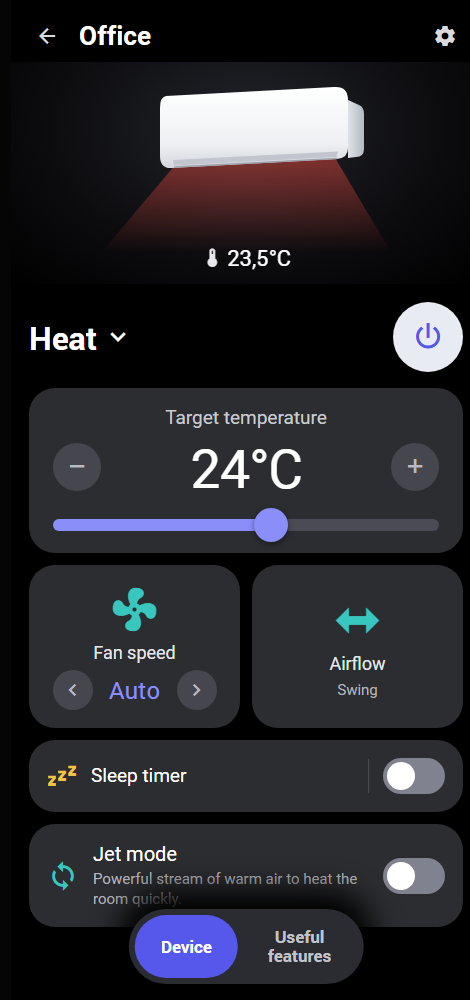
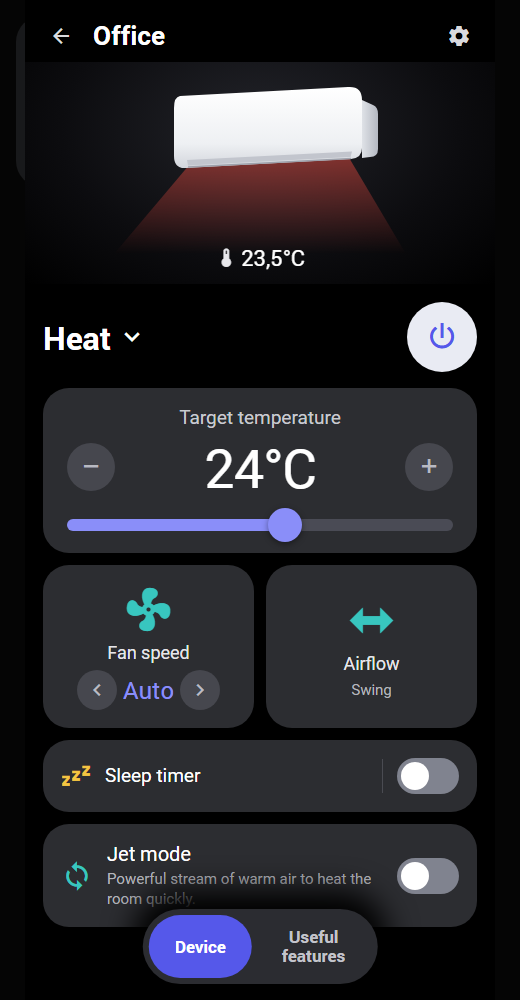
Release 1.5.0: airflow and fan speed sheets like the ThinQ app
- Airflow: Up/Down and Left/Right pictures, arrow buttons and swing switches
- Fan speed: horseshoe dial (drag or tap), minus/plus buttons and Auto switch
- Control screen and tiles fit phone screens of 360 px wide

diff --git a/dist/thinq-airco-card.js b/dist/thinq-airco-card.js
@@ -16,7 +16,7 @@
  *                                       entity overrides; found automatically on the same device.
  *                                       Set to false to hide a feature.
  */
-const LG_VERSION = '1.4.0';
+const LG_VERSION = '1.5.0';
 const LG_I18N = {
   nl: {
     'm.cool': 'Koelen', 'm.dry': 'Ontvochtigen', 'm.fan_only': 'Ventilator', 'm.heat': 'Warmte', 'm.heat_cool': 'Auto', 'm.auto': 'Auto', 'm.__on': 'Inschakelen…',
@@ -30,6 +30,7 @@ const LG_I18N = {
     jet_heat: 'Krachtige stroom warme lucht om de ruimte snel te verwarmen.', jet_cool: 'Krachtige stroom koude lucht om de ruimte snel te koelen.',
     filter: 'Filter', filter_clean: 'Filter schoonmaken aanbevolen', filter_life: 'Resterende levensduur', power_now: 'Stroomverbruik nu', energy_total: 'Energie totaal',
     display_light: 'Displayverlichting', wifi: 'Wifi', all_details: 'Alle details', tab_device: 'Toestel', tab_extra: 'Nuttige<br>functies',
+    v_head: 'Omhoog/Omlaag', v_swing: 'Omhoog/Omlaag zwenken', h_head: 'Links/Rechts', h_swing: 'Links/Rechts zwenken', close: 'Sluiten',
     mode_title: 'Bedieningsmodus', updown: 'Op en neer', leftright: 'Links en rechts', swing: 'Zwenken',
     sleep_after: 'De airco gaat uit na', sleep_now: 'Nu: uit over {d}. Wijzigen naar', sleep_off: 'Slaaptimer uit', sleep_left: 'Gaat uit over {d}',
     sleep_set: 'Slaaptimer: de airco gaat uit over {d}', sleep_failed: 'Slaaptimer mislukt: {e}', failed: 'Mislukt: {e}',
@@ -48,6 +49,7 @@ const LG_I18N = {
     jet_heat: 'Powerful stream of warm air to heat the room quickly.', jet_cool: 'Powerful stream of cold air to cool the room quickly.',
     filter: 'Filter', filter_clean: 'Cleaning recommended', filter_life: 'Remaining life', power_now: 'Power now', energy_total: 'Total energy',
     display_light: 'Display light', wifi: 'Wi-Fi', all_details: 'All details', tab_device: 'Device', tab_extra: 'Useful<br>features',
+    v_head: 'Up/Down', v_swing: 'Up/Down swing', h_head: 'Left/Right', h_swing: 'Left/Right swing', close: 'Close',
     mode_title: 'Operation mode', updown: 'Up and down', leftright: 'Left and right', swing: 'Swing',
     sleep_after: 'Turn the air conditioner off after', sleep_now: 'Now: off in {d}. Change to', sleep_off: 'Sleep timer off', sleep_left: 'Turns off in {d}',
     sleep_set: 'Sleep timer: turns off in {d}', sleep_failed: 'Sleep timer failed: {e}', failed: 'Failed: {e}',
@@ -170,6 +172,47 @@ function lgFlowSvg(k, v) {
     else body += arrow(ox, oy, 90, 22) + pin(ox, oy);
   }
   return `<svg viewBox="0 0 46 41" fill="none" stroke="currentColor" stroke-width="2.4" stroke-linecap="round" stroke-linejoin="round">${body}</svg>`;
+}
+
+/* ---- luchtstroom- en ventilatorbladen in ThinQ-stijl ---- */
+const LG_V_ORDER = ['Top', 'MiddleTop1', 'MiddleTop2', 'MiddleBottom2', 'MiddleBottom1', 'Bottom'];
+const LG_H_ORDER = ['Left', 'MiddleLeft', 'Center', 'MiddleRight', 'Right'];
+const LG_FAN_AUTO = ['diffuse', 'auto'];
+const lgRays = (cx, cy, angles, act, r1, r2, rd) => angles.map((deg, i) => {
+  const a = (deg * Math.PI) / 180, c = Math.cos(a), s = Math.sin(a), on = act[i] ? ' on' : '';
+  return `<line class="ray${on}" x1="${(cx + c * r1).toFixed(1)}" y1="${(cy + s * r1).toFixed(1)}" x2="${(cx + c * r2).toFixed(1)}" y2="${(cy + s * r2).toFixed(1)}"/>`
+    + `<circle class="dot${on}" cx="${(cx + c * rd).toFixed(1)}" cy="${(cy + s * rd).toFixed(1)}" r="3"/>`;
+}).join('');
+// zijaanzicht: airco tegen de muur rechts, 6 stralen van bijna horizontaal naar bijna verticaal
+const lgVPic = (act) => `<svg class="flowpic" viewBox="0 0 160 132"><path class="frame" d="M28 24 H116 Q122 24 122 30 V34 Q122 38 126 38 H130 Q134 38 134 42 V124"/>`
+  + `${lgRays(112, 42, [170, 156, 142, 128, 114, 100], act, 13, 74, 84)}</svg>`;
+// vooraanzicht: dak met inkeping, 5 stralen naar beneden
+const lgHPic = (act) => `<svg class="flowpic" viewBox="0 0 200 132"><path class="frame" d="M18 104 L80 34 Q86 27 91 34 L95 39 Q100 45 105 39 L109 34 Q114 27 120 34 L182 104"/>`
+  + `${lgRays(100, 48, [126, 108, 90, 72, 54], act, 14, 70, 80)}</svg>`;
+const LG_FAN_GEO = { cx: 150, cy: 160, r: 104, w: 56, a0: 125, span: 290 };
+// lange namen (bijv. "Laag-midden") kleiner, zodat ze binnen de boog blijven
+const lgFanFont = (t) => { const n = String(t || '').length; return n <= 5 ? 40 : n <= 8 ? 32 : 25; };
+const lgFanPos = (n, i) => {
+  const g = LG_FAN_GEO, deg = g.a0 + (n > 1 ? (i * g.span) / (n - 1) : g.span / 2), a = (deg * Math.PI) / 180;
+  return [+(g.cx + Math.cos(a) * g.r).toFixed(1), +(g.cy + Math.sin(a) * g.r).toFixed(1)];
+};
+function lgFanPic(n, idx, isAuto, labels, center) {
+  const g = LG_FAN_GEO, rad = (d) => (d * Math.PI) / 180;
+  const sx = g.cx + Math.cos(rad(g.a0)) * g.r, sy = g.cy + Math.sin(rad(g.a0)) * g.r;
+  const ex = g.cx + Math.cos(rad(g.a0 + g.span)) * g.r, ey = g.cy + Math.sin(rad(g.a0 + g.span)) * g.r;
+  let dots = '';
+  for (let i = 0; i < n; i++) { const [x, y] = lgFanPos(n, i); dots += `<circle cx="${x}" cy="${y}" r="4"/>`; }
+  const [tx, ty] = idx >= 0 ? lgFanPos(n, idx) : [g.cx, g.cy];
+  const [lx0, ly0] = lgFanPos(n, 0), [lx1, ly1] = lgFanPos(n, n - 1);
+  return `<svg class="fanpic${isAuto ? ' auto' : ''}" viewBox="0 0 300 300">
+    <defs><linearGradient id="fg" gradientUnits="userSpaceOnUse" x1="40" y1="0" x2="260" y2="0"><stop offset="0" stop-color="#edbb5f"/><stop offset="1" stop-color="#df6d48"/></linearGradient></defs>
+    <path class="arc" d="M${sx.toFixed(1)} ${sy.toFixed(1)} A${g.r} ${g.r} 0 1 1 ${ex.toFixed(1)} ${ey.toFixed(1)}" stroke="url(#fg)" stroke-width="${g.w}" stroke-linecap="round" fill="none"/>
+    <g class="dots" fill="#fff">${dots}</g>
+    <circle class="thumb" cx="${tx}" cy="${ty}" r="25" ${idx >= 0 ? '' : 'style="display:none"'}/>
+    <text class="ctext" x="${g.cx}" y="${g.cy + 4}" style="font-size:${lgFanFont(center)}px">${lgEsc(center)}</text>
+    <text class="lab" x="${lx0}" y="${ly0 + 52}">${lgEsc(labels[0])}</text>
+    ${labels[1] ? `<text class="lab" x="${g.cx}" y="${g.cy - g.r - g.w / 2 - 12}">${lgEsc(labels[1])}</text>` : ''}
+    <text class="lab" x="${lx1}" y="${ly1 + 52}">${lgEsc(labels[2])}</text></svg>`;
 }
 
 function lgCurrentTemp(hass, config, s) {
@@ -350,6 +393,52 @@ dialog.bsheet::backdrop { background: rgba(0,0,0,.55); }
 .bs-backdrop { flex: 1 1 auto; min-height: 40px; cursor: pointer; }
 .bs { flex: 0 1 auto; position:relative; background:#1f2023; border-radius: 30px 30px 0 0; padding: 12px 20px 28px; max-height: 85%; overflow-y:auto; box-sizing: border-box; animation: up .22s ease; }
 .grab { width: 58px; height: 6px; border-radius: 3px; background:#6b6e7a; margin: 0 auto 18px; }
+/* luchtstroom-blad (ThinQ-stijl) */
+.sec-h { color:#a3a5ad; font-size: 15px; letter-spacing: .4px; text-transform: uppercase; margin: 18px 4px 10px; }
+.flowcard { background:#2e2f34; border-radius: 22px; padding: 14px 18px 4px; }
+.flowtop { display:flex; align-items:center; justify-content:space-between; gap: 10px; }
+.flowpic { flex: 1 1 auto; min-width: 0; max-width: 230px; height: auto; display:block; }
+.flowpic .frame { fill:none; stroke:#8e8f95; stroke-width: 4; stroke-linecap: round; stroke-linejoin: round; }
+.flowpic .ray { stroke:#7c7d84; stroke-width: 5; stroke-linecap: round; }
+.flowpic .dot { fill:#7c7d84; }
+.flowpic .ray.on { stroke:#6d70f0; } .flowpic .dot.on { fill:#6d70f0; }
+.flowbtns { display:flex; gap: 14px; flex: none; }
+.flowbtns.v { flex-direction: column; }
+.flowbtns .round:disabled { opacity: .35; cursor: default; }
+.flowrow { display:flex; align-items:center; justify-content:space-between; gap: 12px; border-top: 1px solid #45464d; margin-top: 14px; min-height: 62px; font-size: 18px; }
+.closebtn { display:block; width:100%; margin-top: 18px; background:#2e2f34; color:#a9abf8; border:none; border-radius: 16px; padding: 16px; font: inherit; font-size: 18px; cursor:pointer; }
+/* ventilator-blad (ThinQ-stijl) */
+.fanwrap { display:flex; flex-direction:column; align-items:center; }
+.fanpic { width: 100%; max-width: 320px; height: auto; touch-action: none; user-select: none; -webkit-user-select: none; cursor: pointer; }
+.fanpic .lab { fill:#c4c5cc; font-size: 17px; text-anchor: middle; }
+.fanpic .ctext { fill: currentColor; font-size: 40px; text-anchor: middle; dominant-baseline: middle; }
+.fanpic .thumb { fill:#cf613d; stroke: rgba(255,255,255,.28); stroke-width: 3; }
+.fanpic.auto .arc, .fanpic.auto .dots { opacity: .3; }
+.fanpm { display:flex; justify-content:space-between; width: 100%; max-width: 330px; margin-top: -4px; }
+.fanpm .round:disabled { opacity: .35; cursor: default; }
+.autorow { display:flex; align-items:center; justify-content:center; gap: 16px; margin-top: 16px; font-size: 18px; }
+.fan { cursor: pointer; }
+/* telefoon: alles moet binnen ~360 px passen */
+.grid2 { grid-template-columns: repeat(2, minmax(0, 1fr)); }
+.cyc { gap: 6px; } .val { min-width: 0; overflow: hidden; text-overflow: ellipsis; white-space: nowrap; }
+@media (max-width: 420px) {
+  .content { padding: 0 12px 100px; }
+  .hero { margin: 0 -12px; }
+  .grid2 > .card { min-height: 140px; padding: 14px 8px; }
+  .bigico { --mdc-icon-size: 44px; }
+  .lbl2 { font-size: 16px; }
+  .val { font-size: 20px; }
+  .round.sm { width: 34px; height: 34px; }
+  .tval { font-size: 48px; }
+  .modebtn { font-size: 28px; }
+  .power { width: 62px; height: 62px; }
+  .flowcard { padding: 12px 14px 4px; }
+  .flowrow { font-size: 16px; }
+  .flowbtns { gap: 10px; }
+}
+:host([bg=glass]) .flowcard, :host([bg=glass]) .closebtn { background: rgba(255,255,255,0.07); }
+:host([bg=theme]) .flowcard, :host([bg=theme]) .closebtn { background: var(--secondary-background-color, rgba(127,127,127,.15)); }
+:host([bg=theme]) .flowrow, :host([bg=theme]) .autorow { color: var(--primary-text-color, #fff); }
 .bs-title { font-size: 26px; font-weight: 700; margin: 0 0 16px 4px; }
 .opts { background:#2e2f34; border-radius: 22px; padding: 0 18px; }
 .opt { display:flex; align-items:center; gap: 14px; min-height: 64px; cursor:pointer; font-size: 20px; }
@@ -558,6 +647,7 @@ class LgAircoPanel extends HTMLElement {
     q('.fprev').addEventListener('click', () => this._cycleFan(-1));
     q('.fnext').addEventListener('click', () => this._cycleFan(1));
     $.air.addEventListener('click', () => this._openSheet('air'));
+    $.fan.addEventListener('click', (e) => { if (!e.target.closest('button')) this._openSheet('fan'); });
     $.sleepchk.addEventListener('change', () => {
       if ($.sleepchk.checked) { $.sleepchk.checked = false; this._openSheet('sleep'); }
       else this._setSleep(0);
@@ -626,6 +716,10 @@ class LgAircoPanel extends HTMLElement {
     $.air.classList.toggle('solo', !fans.length);
     $.grid2.hidden = !fans.length && !hasAir;
     const vs = this._val('swing', a.swing_mode), hs = this._val('hswing', a.swing_horizontal_mode);
+    if (LG_V_ORDER.includes(vs)) this._lastV = vs;
+    if (LG_H_ORDER.includes(hs)) this._lastH = hs;
+    const fmNow = this._val('fan', a.fan_mode);
+    if (fmNow && !LG_FAN_AUTO.includes(fmNow)) this._lastFan = fmNow;
     let airTxt = '';
     if (vs === 'Swing' && hs === 'Swing') airTxt = lgT('swing');
     else airTxt = [vs && `↕ ${LG_VSWING[vs] || vs}`, hs && `↔ ${LG_HSWING[hs] || hs}`].filter(Boolean).join('  ');
@@ -750,6 +844,129 @@ class LgAircoPanel extends HTMLElement {
     this._closeSheet();
     this._update();
   }
+  _setFan(m) {
+    if (!m) return;
+    this._setPending('fan', m);
+    this._call('climate', 'set_fan_mode', { entity_id: this._config.entity, fan_mode: m }, 'fan');
+    this._sheetSig = null;
+    this._update();
+  }
+
+  /* Luchtstroom-blad zoals in de ThinQ-app: Omhoog/Omlaag (zijaanzicht, 6 stralen) en
+     Links/Rechts (vooraanzicht, 5 stralen), elk met pijlknoppen en een zwenk-schakelaar. */
+  _renderAirSheet(a) {
+    const $ = this.$;
+    $.bstitle.textContent = lgT('airflow');
+    const vs = this._val('swing', a.swing_mode), hs = this._val('hswing', a.swing_horizontal_mode);
+    const vList = LG_V_ORDER.filter((v) => (a.swing_modes || []).includes(v));
+    const hList = LG_H_ORDER.filter((v) => (a.swing_horizontal_modes || []).includes(v));
+    const vFix = LG_V_ORDER.includes(vs) ? vs : this._lastV;
+    const hFix = LG_H_ORDER.includes(hs) ? hs : this._lastH;
+    const vAct = LG_V_ORDER.map((v) => vs === 'Swing' || v === vFix);
+    const hAct = LG_H_ORDER.map((v, i) => hs === 'Swing' || v === hFix
+      || (hs === 'LeftHalf' && i <= 2) || (hs === 'RightHalf' && i >= 2));
+    const vCur = vList.indexOf(vFix), hCur = hList.indexOf(hFix);
+    let html = '';
+    if (vList.length || (a.swing_modes || []).includes('Swing')) {
+      html += `<div class="sec-h">${lgT('v_head')}</div><div class="flowcard">
+        <div class="flowtop">${lgVPic(vAct)}<div class="flowbtns v">
+          <button class="round" data-a="vup" ${vList.length && vCur === 0 && vs !== 'Swing' ? 'disabled' : ''}><ha-icon icon="mdi:chevron-up"></ha-icon></button>
+          <button class="round" data-a="vdown" ${vList.length && vCur === vList.length - 1 && vs !== 'Swing' ? 'disabled' : ''}><ha-icon icon="mdi:chevron-down"></ha-icon></button></div></div>
+        <div class="flowrow"><span>${lgT('v_swing')}</span><label class="tgl"><input type="checkbox" data-a="vswing" ${vs === 'Swing' ? 'checked' : ''}><span></span></label></div></div>`;
+    }
+    if (hList.length || (a.swing_horizontal_modes || []).includes('Swing')) {
+      html += `<div class="sec-h">${lgT('h_head')}</div><div class="flowcard">
+        <div class="flowtop">${lgHPic(hAct)}<div class="flowbtns">
+          <button class="round" data-a="hleft" ${hList.length && hCur === 0 && hs !== 'Swing' ? 'disabled' : ''}><ha-icon icon="mdi:chevron-left"></ha-icon></button>
+          <button class="round" data-a="hright" ${hList.length && hCur === hList.length - 1 && hs !== 'Swing' ? 'disabled' : ''}><ha-icon icon="mdi:chevron-right"></ha-icon></button></div></div>
+        <div class="flowrow"><span>${lgT('h_swing')}</span><label class="tgl"><input type="checkbox" data-a="hswing" ${hs === 'Swing' ? 'checked' : ''}><span></span></label></div></div>`;
+    }
+    html += `<button class="closebtn">${lgT('close')}</button>`;
+    $.bsbody.innerHTML = html;
+    const step = (list, cur, dir) => {
+      if (!list.length) return null;
+      const base = cur >= 0 ? cur : Math.floor((list.length - 1) / 2) + (dir < 0 ? 1 : 0);
+      return list[Math.min(list.length - 1, Math.max(0, base + dir))];
+    };
+    const on = (sel, ev, fn) => { const el = $.bsbody.querySelector(sel); if (el) el.addEventListener(ev, fn); };
+    on('[data-a="vup"]', 'click', () => this._setSwing('v', step(vList, vCur, -1)));
+    on('[data-a="vdown"]', 'click', () => this._setSwing('v', step(vList, vCur, 1)));
+    on('[data-a="hleft"]', 'click', () => this._setSwing('h', step(hList, hCur, -1)));
+    on('[data-a="hright"]', 'click', () => this._setSwing('h', step(hList, hCur, 1)));
+    on('[data-a="vswing"]', 'change', (e) => this._setSwing('v', e.target.checked ? 'Swing' : (this._lastV && vList.includes(this._lastV) ? this._lastV : 'Off')));
+    on('[data-a="hswing"]', 'change', (e) => this._setSwing('h', e.target.checked ? 'Swing' : (this._lastH && hList.includes(this._lastH) ? this._lastH : 'Off')));
+    on('.closebtn', 'click', () => this._closeSheet());
+  }
+
+  /* Ventilatorsnelheid-blad zoals in de ThinQ-app: hoefijzer met kleurverloop, sleepbaar bolletje,
+     − / + en een Auto-schakelaar. */
+  _renderFanSheet(a) {
+    const $ = this.$;
+    $.bstitle.textContent = lgT('fan');
+    const all = a.fan_modes || [];
+    const manual = all.filter((m) => !LG_FAN_AUTO.includes(m));
+    const autoMode = all.find((m) => LG_FAN_AUTO.includes(m));
+    const cur = this._val('fan', a.fan_mode);
+    const isAuto = LG_FAN_AUTO.includes(cur);
+    let idx = manual.indexOf(cur);
+    if (idx < 0) idx = manual.indexOf(this._lastFan);
+    const base = idx >= 0 ? idx : Math.floor((manual.length - 1) / 2);
+    this._fanCtx = { manual, base };
+    const n = manual.length;
+    let html = '';
+    if (n) {
+      const mid = Math.floor((n - 1) / 2);
+      html += `<div class="fanwrap">${lgFanPic(n, isAuto ? -1 : base, isAuto,
+        [LG_FAN[manual[0]] || manual[0], n > 2 ? LG_FAN[manual[mid]] || manual[mid] : '', LG_FAN[manual[n - 1]] || manual[n - 1]],
+        isAuto ? (LG_FAN[cur] || 'Auto') : (LG_FAN[manual[base]] || manual[base]))}
+        <div class="fanpm"><button class="round" data-a="fminus" ${!isAuto && base <= 0 ? 'disabled' : ''}>−</button>
+        <button class="round" data-a="fplus" ${!isAuto && base >= n - 1 ? 'disabled' : ''}>+</button></div></div>`;
+    }
+    if (autoMode) html += `<div class="autorow"><span>${LG_FAN[autoMode] || 'Auto'}</span><label class="tgl"><input type="checkbox" data-a="fauto" ${isAuto ? 'checked' : ''}><span></span></label></div>`;
+    html += `<button class="closebtn">${lgT('close')}</button>`;
+    $.bsbody.innerHTML = html;
+    const on = (sel, ev, fn) => { const el = $.bsbody.querySelector(sel); if (el) el.addEventListener(ev, fn); };
+    on('[data-a="fminus"]', 'click', () => this._setFan(manual[isAuto ? base : Math.max(0, base - 1)]));
+    on('[data-a="fplus"]', 'click', () => this._setFan(manual[isAuto ? base : Math.min(n - 1, base + 1)]));
+    on('[data-a="fauto"]', 'change', (e) => this._setFan(e.target.checked ? autoMode : manual[base]));
+    on('.closebtn', 'click', () => this._closeSheet());
+    const svg = $.bsbody.querySelector('.fanpic');
+    if (!svg || !n) return;
+    const pick = (ev) => {
+      const ctm = svg.getScreenCTM(); if (!ctm) return base;
+      const p = new DOMPoint(ev.clientX, ev.clientY).matrixTransform(ctm.inverse());
+      const ang = (Math.atan2(p.y - LG_FAN_GEO.cy, p.x - LG_FAN_GEO.cx) * 180) / Math.PI;
+      let rel = (((ang - LG_FAN_GEO.a0) % 360) + 360) % 360;
+      if (rel > LG_FAN_GEO.span) rel = rel > LG_FAN_GEO.span + (360 - LG_FAN_GEO.span) / 2 ? 0 : LG_FAN_GEO.span;
+      return n > 1 ? Math.round((rel / LG_FAN_GEO.span) * (n - 1)) : 0;
+    };
+    const live = (i) => {
+      const [x, y] = lgFanPos(n, i);
+      const th = svg.querySelector('.thumb'); th.setAttribute('cx', x); th.setAttribute('cy', y); th.style.display = '';
+      const ct = svg.querySelector('.ctext'), txt = LG_FAN[manual[i]] || manual[i];
+      ct.textContent = txt; ct.style.fontSize = `${lgFanFont(txt)}px`;
+      svg.classList.remove('auto');
+    };
+    let liveIdx = null;
+    svg.addEventListener('pointerdown', (ev) => {
+      this._dragging = true; liveIdx = pick(ev); live(liveIdx);
+      try { svg.setPointerCapture(ev.pointerId); } catch (e) { /* oude browser */ }
+      ev.preventDefault();
+    });
+    svg.addEventListener('pointermove', (ev) => {
+      if (!this._dragging) return;
+      const i = pick(ev); if (i !== liveIdx) { liveIdx = i; live(i); }
+    });
+    const end = () => {
+      if (!this._dragging) return;
+      this._dragging = false;
+      if (liveIdx !== null) this._setFan(manual[liveIdx]);
+      liveIdx = null;
+    };
+    svg.addEventListener('pointerup', end);
+    svg.addEventListener('pointercancel', end);
+  }
+
   _toggleSwitch(relKey, pendKey, wantOn) {
     const id = this._rel && this._rel[relKey]; if (!id) return;
     this._setPending(pendKey, wantOn ? 'on' : 'off');
@@ -775,9 +992,10 @@ class LgAircoPanel extends HTMLElement {
     const a = s.attributes, $ = this.$, kind = this._sheet;
     // alleen opnieuw opbouwen als er voor dit blad echt iets veranderd is; anders valt een klik
     // weg wanneer HA (meerdere keren per seconde) een nieuwe toestand stuurt
+    if (this._dragging) return;
     const sig = [kind, this._mode(s), (a.hvac_modes || []).join(), this._val('swing', a.swing_mode),
       this._val('hswing', a.swing_horizontal_mode), (a.swing_modes || []).join(), (a.swing_horizontal_modes || []).join(),
-      kind === 'sleep' ? this._sleepMins() : ''].join('|');
+      this._val('fan', a.fan_mode), (a.fan_modes || []).join(), kind === 'sleep' ? this._sleepMins() : ''].join('|');
     if (sig === this._sheetSig) return;
     this._sheetSig = sig;
     if (kind === 'mode') {
@@ -791,14 +1009,9 @@ class LgAircoPanel extends HTMLElement {
           <span>${LG_MODES[m].label}</span></div>`).join('')}</div>`;
       $.bsbody.querySelectorAll('.opt').forEach((o) => o.addEventListener('click', () => this._setMode(o.dataset.v)));
     } else if (kind === 'air') {
-      $.bstitle.textContent = lgT('airflow');
-      const vs = this._val('swing', a.swing_mode), hs = this._val('hswing', a.swing_horizontal_mode);
-      const chips = (list, map, cur, k) => `<div class="chips">${list.map((v) => `<button class="chip ${v === cur ? 'sel' : ''}" data-k="${k}" data-v="${lgEsc(v)}">${lgFlowSvg(k, v)}<span>${lgEsc(map[v] || v)}</span></button>`).join('')}</div>`;
-      let html = '';
-      if (a.swing_modes && a.swing_modes.length) html += `<div class="sub-h">${lgT('updown')}</div>${chips(a.swing_modes, LG_VSWING, vs, 'v')}`;
-      if (a.swing_horizontal_modes && a.swing_horizontal_modes.length) html += `<div class="sub-h">${lgT('leftright')}</div>${chips(a.swing_horizontal_modes, LG_HSWING, hs, 'h')}`;
-      $.bsbody.innerHTML = html;
-      $.bsbody.querySelectorAll('.chip').forEach((b) => b.addEventListener('click', () => this._setSwing(b.dataset.k, b.dataset.v)));
+      this._renderAirSheet(a);
+    } else if (kind === 'fan') {
+      this._renderFanSheet(a);
     } else if (kind === 'sleep') {
       $.bstitle.textContent = lgT('sleep');
       const cur = this._sleepMins();
@@ -833,6 +1046,15 @@ ha-card.tile.unavail { opacity:.5; }
 .sub { font-size: 17px; color:#d9dade; margin-top: 2px; }
 .mode { font-size: 14px; color:#b4b5bc; margin-top: 3px; display:flex; align-items:center; gap:4px; min-height: 18px; }
 .mode ha-icon { --mdc-icon-size: 16px; }
+/* smalle tegels (telefoon, halve breedte) */
+ha-card.tile { container-type: inline-size; }
+.top { gap: 8px; } .ic { min-width: 0; } .name { overflow-wrap: anywhere; }
+@container (max-width: 210px) {
+  .u-tile.wall { width: 64px; height: 32px; margin-top: 6px; }
+  .u-tile.cas { width: 40px; height: 40px; }
+  .pwr { width: 44px; height: 44px; } .pwr ha-icon { --mdc-icon-size: 24px; }
+  .name { font-size: 17px; margin-top: 10px; } .sub { font-size: 15px; } .mode { font-size: 12.5px; }
+}
 /* achtergrond: glass (zelfde glasstijl als de dashboardkaarten) */
 :host([bg=glass]) ha-card.tile { background: rgba(18, 22, 30, 0.72); backdrop-filter: blur(14px) saturate(140%); -webkit-backdrop-filter: blur(14px) saturate(140%);
   border: 1px solid rgba(255,255,255,0.08); border-radius: 18px; }

diff --git a/README.md b/README.md
@@ -2,9 +2,9 @@
 
 [Nederlands](#nederlands) · [English](#english)
 
-| Tegel / Tile | Bediening / Control | Modus / Mode | Luchtstroom / Airflow | Nuttige functies / Features |
+| Tegel / Tile | Bediening / Control | Luchtstroom / Airflow | Ventilator / Fan | Nuttige functies / Features |
 |---|---|---|---|---|
-| ![Tiles](images/tiles.png) | ![Control](images/control.png) | ![Mode](images/mode.png) | ![Airflow](images/airflow.png) | ![Features](images/features.png) |
+| ![Tiles](images/tiles.png) | ![Control](images/control.png) | ![Airflow](images/airflow.png) | ![Fan](images/fan.png) | ![Features](images/features.png) |
 
 ---
 
@@ -22,7 +22,8 @@ Andere climate-entiteiten werken ook; de LG-specifieke extra's (Extra snel, slaa
 - Bedieningsscherm zoals de toestelpagina in de ThinQ-app:
   - blad met de bedieningsmodus (Koelen, Ontvochtigen, Ventilator, Warmte, Auto)
   - doeltemperatuur met − / + en schuifbalk (wordt na een korte pauze verstuurd, zodat een paar tikken één opdracht worden)
-  - ventilatorsnelheid met ‹ ›, blad voor de luchtstroom (lamelstanden op en neer, links en rechts, zwenken)
+  - ventilatorsnelheid met ‹ › of een blad met hoefijzer, − / + en Auto (zoals in de app)
+  - luchtstroom zoals in de app: Omhoog/Omlaag en Links/Rechts met afbeelding, pijlknoppen en zwenk-schakelaar
   - slaaptimer en Extra snel (Jet mode)
   - tabblad *Nuttige functies*: filter, stroomverbruik, energie, displayverlichting, wifi
 - Bijbehorende LG-entiteiten worden automatisch gevonden op hetzelfde apparaat
@@ -100,7 +101,8 @@ Other climate entities work too; LG-specific extras (jet mode, sleep timer, filt
 - Control screen like the ThinQ device page:
   - operation mode sheet (Cool, Dry, Fan, Heat, Auto)
   - target temperature with − / + and slider (sent after a short pause, so several taps become one command)
-  - fan speed with ‹ ›, airflow sheet (up/down and left/right louvre positions, swing)
+  - fan speed with ‹ › or a sheet with horseshoe dial, − / + and Auto (like the app)
+  - airflow like the app: Up/Down and Left/Right with picture, arrow buttons and swing switch
   - sleep timer and jet mode
   - *Useful features* tab: filter life, power, energy, display light, Wi-Fi
 - Related LG entities are found automatically on the same device

diff --git a/CHANGELOG.md b/CHANGELOG.md
@@ -1,5 +1,11 @@
 # Changelog
 
+## 1.5.0 — 2026-11-21
+
+- Airflow sheet like the ThinQ app: Up/Down and Left/Right pictures with rays, arrow buttons and swing switches
+- Fan speed sheet like the ThinQ app: horseshoe dial (drag or tap), − / + and Auto switch
+- Phone layout: control screen and tiles fit 360 px wide screens
+
 ## 1.4.0 — 2026-11-21
 
 - Visual editor: entity, name, layout, picture, background, language, temperature sensor and LG feature overrides
